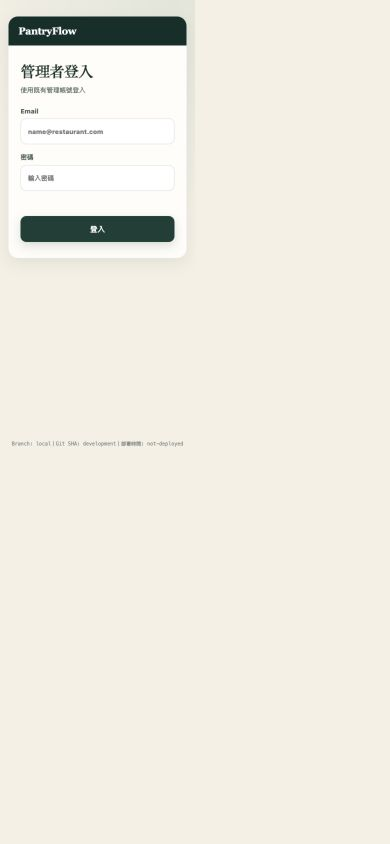
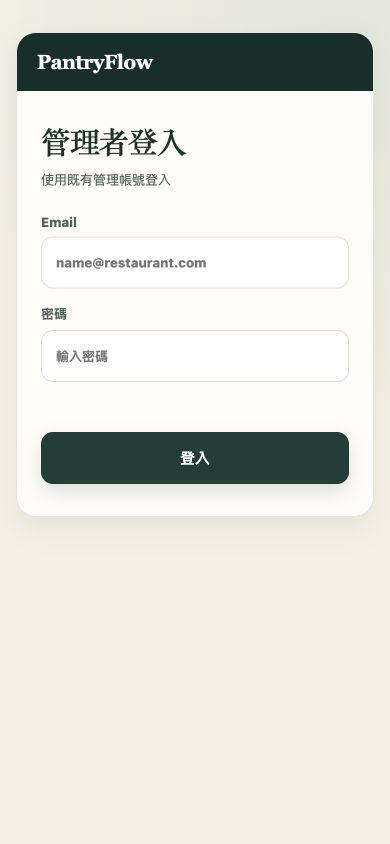
fix: enforce measured login layout

Changed region(s): [[0.0, 0.0, 0.9846, 0.4621], [0.0923, 0.4929, 0.8923, 0.5853], [0.0308, 0.5237, 0.0615, 0.5545]]

diff --git a/pilot-v1/design-tokens.css b/pilot-v1/design-tokens.css
@@ -22,7 +22,7 @@
 .setup-empty .empty-actions{display:grid;grid-template-columns:1fr 1fr;gap:8px;margin-top:16px}.setup-empty .primary,.setup-empty .secondary{width:100%;min-height:44px;margin:0}.setup-empty button:disabled{cursor:not-allowed;opacity:.45}.settings-card h3{margin:0 0 8px;font-size:16px}.setup-row,.zone-row{display:flex;align-items:center;justify-content:space-between;gap:12px;padding:15px}.setup-row small,.zone-row small{display:block;margin-top:4px;color:var(--muted);font-size:11px}.button-row{display:flex;flex-wrap:wrap;gap:8px;margin-top:12px}.file-button{display:inline-flex;align-items:center;cursor:pointer}.import-preview{margin-top:12px}.inline-form{display:grid;grid-template-columns:minmax(0,1fr) auto;gap:8px;margin-top:12px}.inline-form select{min-width:0;height:44px;padding:0 12px;border:1px solid var(--line);border-radius:12px;background:#fff}.inline-form .error{grid-column:1/-1}.blind-note{padding:11px 13px;border-radius:13px;background:var(--sage);color:var(--forest-900);font-size:12px;font-weight:850}.count-input-row{display:grid;grid-template-columns:minmax(0,1fr) auto;align-items:center;gap:12px;padding:15px}.count-input-row small{display:block;margin-top:4px;color:var(--muted);font-size:11px}.count-input-row em{grid-column:1/-1;color:var(--muted);font-size:10px;font-style:normal;text-align:right}.quantity-input{display:flex;align-items:center;gap:8px}.quantity-input input{width:112px;height:48px;padding:0 10px;border:1px solid var(--line);border-radius:12px;background:#fff;text-align:right;font-size:20px;font-weight:800}.quantity-input b{min-width:34px;color:var(--muted);font-size:11px}.discrepancy-card{padding:17px}.discrepancy-card>div p{margin:7px 0 0;color:var(--danger);font-size:13px}.resolution-form{display:grid;gap:0 10px;margin-top:12px}.resolution-form .primary{margin-top:14px}.resolution-form .error{grid-column:1/-1}@media(min-width:760px){.resolution-form{grid-template-columns:repeat(3,1fr)}.resolution-form .primary{grid-column:1/-1}.setup-empty .empty-actions{grid-template-columns:repeat(4,1fr)}}
 .receipt-row{display:flex;align-items:center;justify-content:space-between;gap:12px;width:100%;padding:15px;color:var(--ink);text-align:left}.receipt-row small{display:block;margin-top:4px;color:var(--muted);font-size:11px}.receipt-review-grid{display:grid;gap:12px}.receipt-images{overflow:hidden;padding:12px}.receipt-images figure{margin:0}.receipt-images figure+figure{margin-top:12px}.receipt-images img{display:block;width:100%;max-height:560px;object-fit:contain;border-radius:14px;background:#eee}.receipt-images figcaption{margin-top:7px;color:var(--muted);font-size:10px}.review-field{padding:13px 0;border-top:1px solid var(--line)}.review-field small{display:block;margin:7px 0;color:var(--muted);font-size:10px;line-height:1.45}.review-field .secondary{width:100%}@media(min-width:900px){.receipt-review-grid{grid-template-columns:minmax(0,1.15fr) minmax(320px,.85fr);align-items:start}}
 
-/* PF-LOGIN-UI-PROPOSAL-20260824: ADMIN-only proposal pending user decision. */
-.admin-login-stage{min-height:calc(100vh - 30px);display:grid;place-items:start center;padding:32px 16px 28px}.admin-login-frame{width:min(100%,460px);overflow:hidden;border:1px solid rgba(23,63,53,.12);border-radius:20px;background:var(--surface);box-shadow:0 10px 30px rgba(24,52,44,.08)}.admin-login-topbar{display:flex;align-items:center;justify-content:space-between;min-height:58px;padding:0 20px;background:var(--forest-950);color:#fff}.admin-login-topbar strong{font-family:Georgia,"Noto Serif TC",serif;font-size:20px;letter-spacing:-.02em}.admin-login-topbar span{padding:6px 9px;border:1px solid rgba(255,255,255,.24);border-radius:10px;background:rgba(255,255,255,.08);font-size:11px;font-weight:800}.admin-login-content{padding:32px 24px}.admin-login-heading{margin-bottom:24px}.admin-login-heading .eyebrow{margin:0 0 12px;color:var(--forest-700)}.admin-login-heading h1{margin:0 0 10px;font-family:Georgia,"Noto Serif TC",serif;font-size:30px;line-height:1.2;letter-spacing:-.035em}.admin-login-heading p{margin:0;color:var(--ink-soft);font-size:13px;line-height:1.65}.admin-login-form .field{margin-top:16px;font-size:13px}.admin-login-form .field input{height:52px;border-radius:12px;background:#fff}.admin-login-form .primary{min-height:52px;border-radius:12px;font-size:15px}.admin-login-error{min-height:20px;margin-top:12px;padding:0}.admin-login-error:not(:empty){padding:11px 12px;border:1px solid #efd0cb;border-radius:12px;background:#fff4f1}.admin-login-note{margin-top:24px;padding:15px 16px;border-radius:14px;background:var(--sage);color:var(--forest-900)}.admin-login-note strong{font-size:12px}.admin-login-note p{margin:6px 0 0;font-size:12px;line-height:1.55}.admin-store-choice{width:100%;padding:14px 15px;text-align:left}.admin-store-choice strong,.admin-store-choice small{display:block}.admin-store-choice small{margin-top:5px;color:var(--muted)}.admin-empty-state{text-align:center}.admin-empty-icon{display:grid;width:44px;height:44px;place-items:center;margin:0 auto 18px;border-radius:14px;background:var(--amber-soft);color:#9a6220;font-weight:900}.admin-empty-state .secondary{width:100%}
-@media(min-width:760px){.admin-login-stage{place-items:center;padding:48px 24px}.admin-login-frame{width:min(100%,520px)}.admin-login-content{padding:40px 44px}.admin-login-topbar{padding:0 24px}.admin-login-heading h1{font-size:34px}}
+/* PF-LOGIN-UI-PROPOSAL-20260824: confirmed ADMIN proposal, not merged or deployed. */
+.admin-login-stage{min-height:calc(100vh - 30px);display:grid;place-items:start center;padding:32px 16px 28px}.admin-login-frame{width:calc(100vw - 32px);max-width:520px;overflow:hidden;border:1px solid rgba(23,63,53,.12);border-radius:20px;background:var(--surface);box-shadow:0 10px 30px rgba(24,52,44,.08)}.admin-login-topbar{display:flex;align-items:center;justify-content:space-between;min-height:58px;padding:0 20px;background:var(--forest-950);color:#fff}.admin-login-topbar strong{font-family:Georgia,"Noto Serif TC",serif;font-size:20px;letter-spacing:-.02em}.admin-login-topbar span{padding:6px 9px;border:1px solid rgba(255,255,255,.24);border-radius:10px;background:rgba(255,255,255,.08);font-size:11px;font-weight:800}.admin-login-content{padding:32px 24px}.admin-login-heading{margin-bottom:24px}.admin-login-heading .eyebrow{margin:0 0 12px;color:var(--forest-700)}.admin-login-heading h1{margin:0 0 10px;font-family:Georgia,"Noto Serif TC",serif;font-size:30px;line-height:1.2;letter-spacing:-.035em}.admin-login-heading p{margin:0;color:var(--ink-soft);font-size:13px;line-height:1.65}.admin-login-form .field{margin-top:16px;font-size:13px}.admin-login-form .field input{height:52px;border-radius:12px;background:#fff}.admin-login-form .primary{min-height:52px;border-radius:12px;font-size:15px}.admin-login-error{min-height:20px;margin-top:12px;padding:0}.admin-login-error:not(:empty){padding:11px 12px;border:1px solid #efd0cb;border-radius:12px;background:#fff4f1}.admin-login-note{margin-top:24px;padding:15px 16px;border-radius:14px;background:var(--sage);color:var(--forest-900)}.admin-login-note strong{font-size:12px}.admin-login-note p{margin:6px 0 0;font-size:12px;line-height:1.55}.admin-store-choice{width:100%;padding:14px 15px;text-align:left}.admin-store-choice strong,.admin-store-choice small{display:block}.admin-store-choice small{margin-top:5px;color:var(--muted)}.admin-empty-state{text-align:center}.admin-empty-icon{display:grid;width:44px;height:44px;place-items:center;margin:0 auto 18px;border-radius:14px;background:var(--amber-soft);color:#9a6220;font-weight:900}.admin-empty-state .secondary{width:100%}
+@media(min-width:760px){.admin-login-stage{padding:120px 24px 48px}.admin-login-frame{width:520px}.admin-login-content{padding:40px 44px}.admin-login-topbar{padding:0 24px}.admin-login-heading h1{font-size:34px}}
 .admin-auth-view .build-banner{display:none}.admin-auth-view .admin-login-stage{min-height:100vh}.admin-login-topbar{justify-content:flex-start}

diff --git a/docs/decisions/PF-LOGIN-UI-PROPOSAL-20260824.md b/docs/decisions/PF-LOGIN-UI-PROPOSAL-20260824.md
@@ -44,3 +44,10 @@ ADMIN Email／Password 登入在三張圖中都未呈現。本提案只能沿用
 - 禁止深綠左右分欄、葉片 Logo 與直向身份卡。
 
 PR #14 合併前，本文件與截圖不得標示為已部署，也不得取代 PF-UIV2-IMG-01。
+
+## 版面量測驗收
+
+- 1440×1000：卡片寬 520px、左 460px、右 460px、上緣 120px。
+- 390×844：卡片寬 358px、左 16px、右 16px。
+- 手機 Email、密碼與登入按鈕實測寬度皆為 308px。
+- 自動化斷言：`tests/login-layout-browser.mjs`，直接讀取 `getBoundingClientRect()`，並檢查 browser console 無 uncaught error。

diff --git a/docs/decisions/PF-UI-V2/proposals/PF-LOGIN-UI-20260824/README.md b/docs/decisions/PF-UI-V2/proposals/PF-LOGIN-UI-20260824/README.md
@@ -2,6 +2,8 @@
 
 狀態：視覺規則已由使用者於 2026-08-24 確認；PR #14 尚未合併、未部署。
 
+版面量測：桌機 1440×1000 為 520px 卡片（left/right 460px、top 120px）；手機 390×844 為 358px 卡片（left/right 16px），Email、密碼與按鈕皆為 308px。
+
 ## 與 PF-UIV2-IMG-01 並列
 
 | 唯一既有登入定案圖 | ADMIN 桌機提案 | ADMIN 手機提案 |
